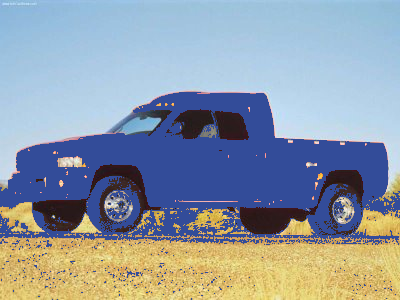
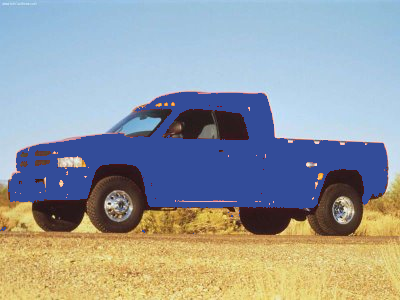
update

diff --git a/Problem3.py b/Problem3.py
@@ -3,16 +3,6 @@ from Helping import *
 ORIGINAL_IMAGE_PATH = 'res/Truck.jpg'
 
 
-def find_color_distance(image, color):
-    color_difference = image - color
-    distance = color_difference ** 2
-    distance = distance.sum(axis=2)
-    distance = np.repeat(distance, 3)
-    distance = distance.reshape(image.shape)
-
-    return distance, color_difference
-
-
 def adjust_image_to_RGB(image):
     image = cv2.cvtColor(image, cv2.COLOR_BGR2RGB).astype('float64')
     image /= 255
@@ -23,17 +13,20 @@ def adjust_image_to_BGR(image):
     return cv2.cvtColor((image * 255).astype('uint8'), cv2.COLOR_RGB2BGR)
 
 
+def find_color_distance(image, color):
+    distance = image - color
+    distance **= 2
+    distance = distance.sum(axis=2)
+    distance = distance ** 0.5
+    distance = np.repeat(distance, 3)
+    distance = distance.reshape(image.shape)
+
+    return distance
+
+
 def replace_color_with(image, center, radius, color):
-    distance, distance2 = find_color_distance(image, center)
-
-    # color_replaced_image = image - center
-    # color_replaced_image += color
-    # color_replaced_image += distance2
-    #
-    # color_replaced_image = np.clip(color_replaced_image, 0, 1)
-
+    distance = find_color_distance(image, center)
     color_replaced_image = np.full_like(image, color)
-
     return np.where(distance <= radius, color_replaced_image, image)
 
 
@@ -43,16 +36,16 @@ original_image = adjust_image_to_RGB(original_image)
 replace_color = [0.2, 0.3, 0.6]
 
 center1 = [179 / 255, 40 / 255, 50 / 255]
-radius1 = 0.06
+radius1 = 0.25
 sliced_image = replace_color_with(original_image, center1, radius1, replace_color)
 
-# center2 = [225 / 255, 89 / 255, 103 / 255]
-# radius2 = 10 / 255
-# sliced_image = replace_color_with(sliced_image, center2, radius2, replace_color)
+center2 = [225 / 255, 89 / 255, 103 / 255]
+radius2 = 0.2
+sliced_image = replace_color_with(sliced_image, center2, radius2, replace_color)
 #
-# center3 = [100 / 255, 20 / 255, 30 / 255]
-# radius3 = 3.5 / 255
-# sliced_image = replace_color_with(sliced_image, center3, radius3, replace_color)
+center3 = [100 / 255, 20 / 255, 30 / 255]
+radius3 = 0.1
+sliced_image = replace_color_with(sliced_image, center3, radius3, replace_color)
 
 show_image_and_wait(adjust_image_to_BGR(sliced_image))
 cv2.imwrite('out/sliced.png', adjust_image_to_BGR(sliced_image))
